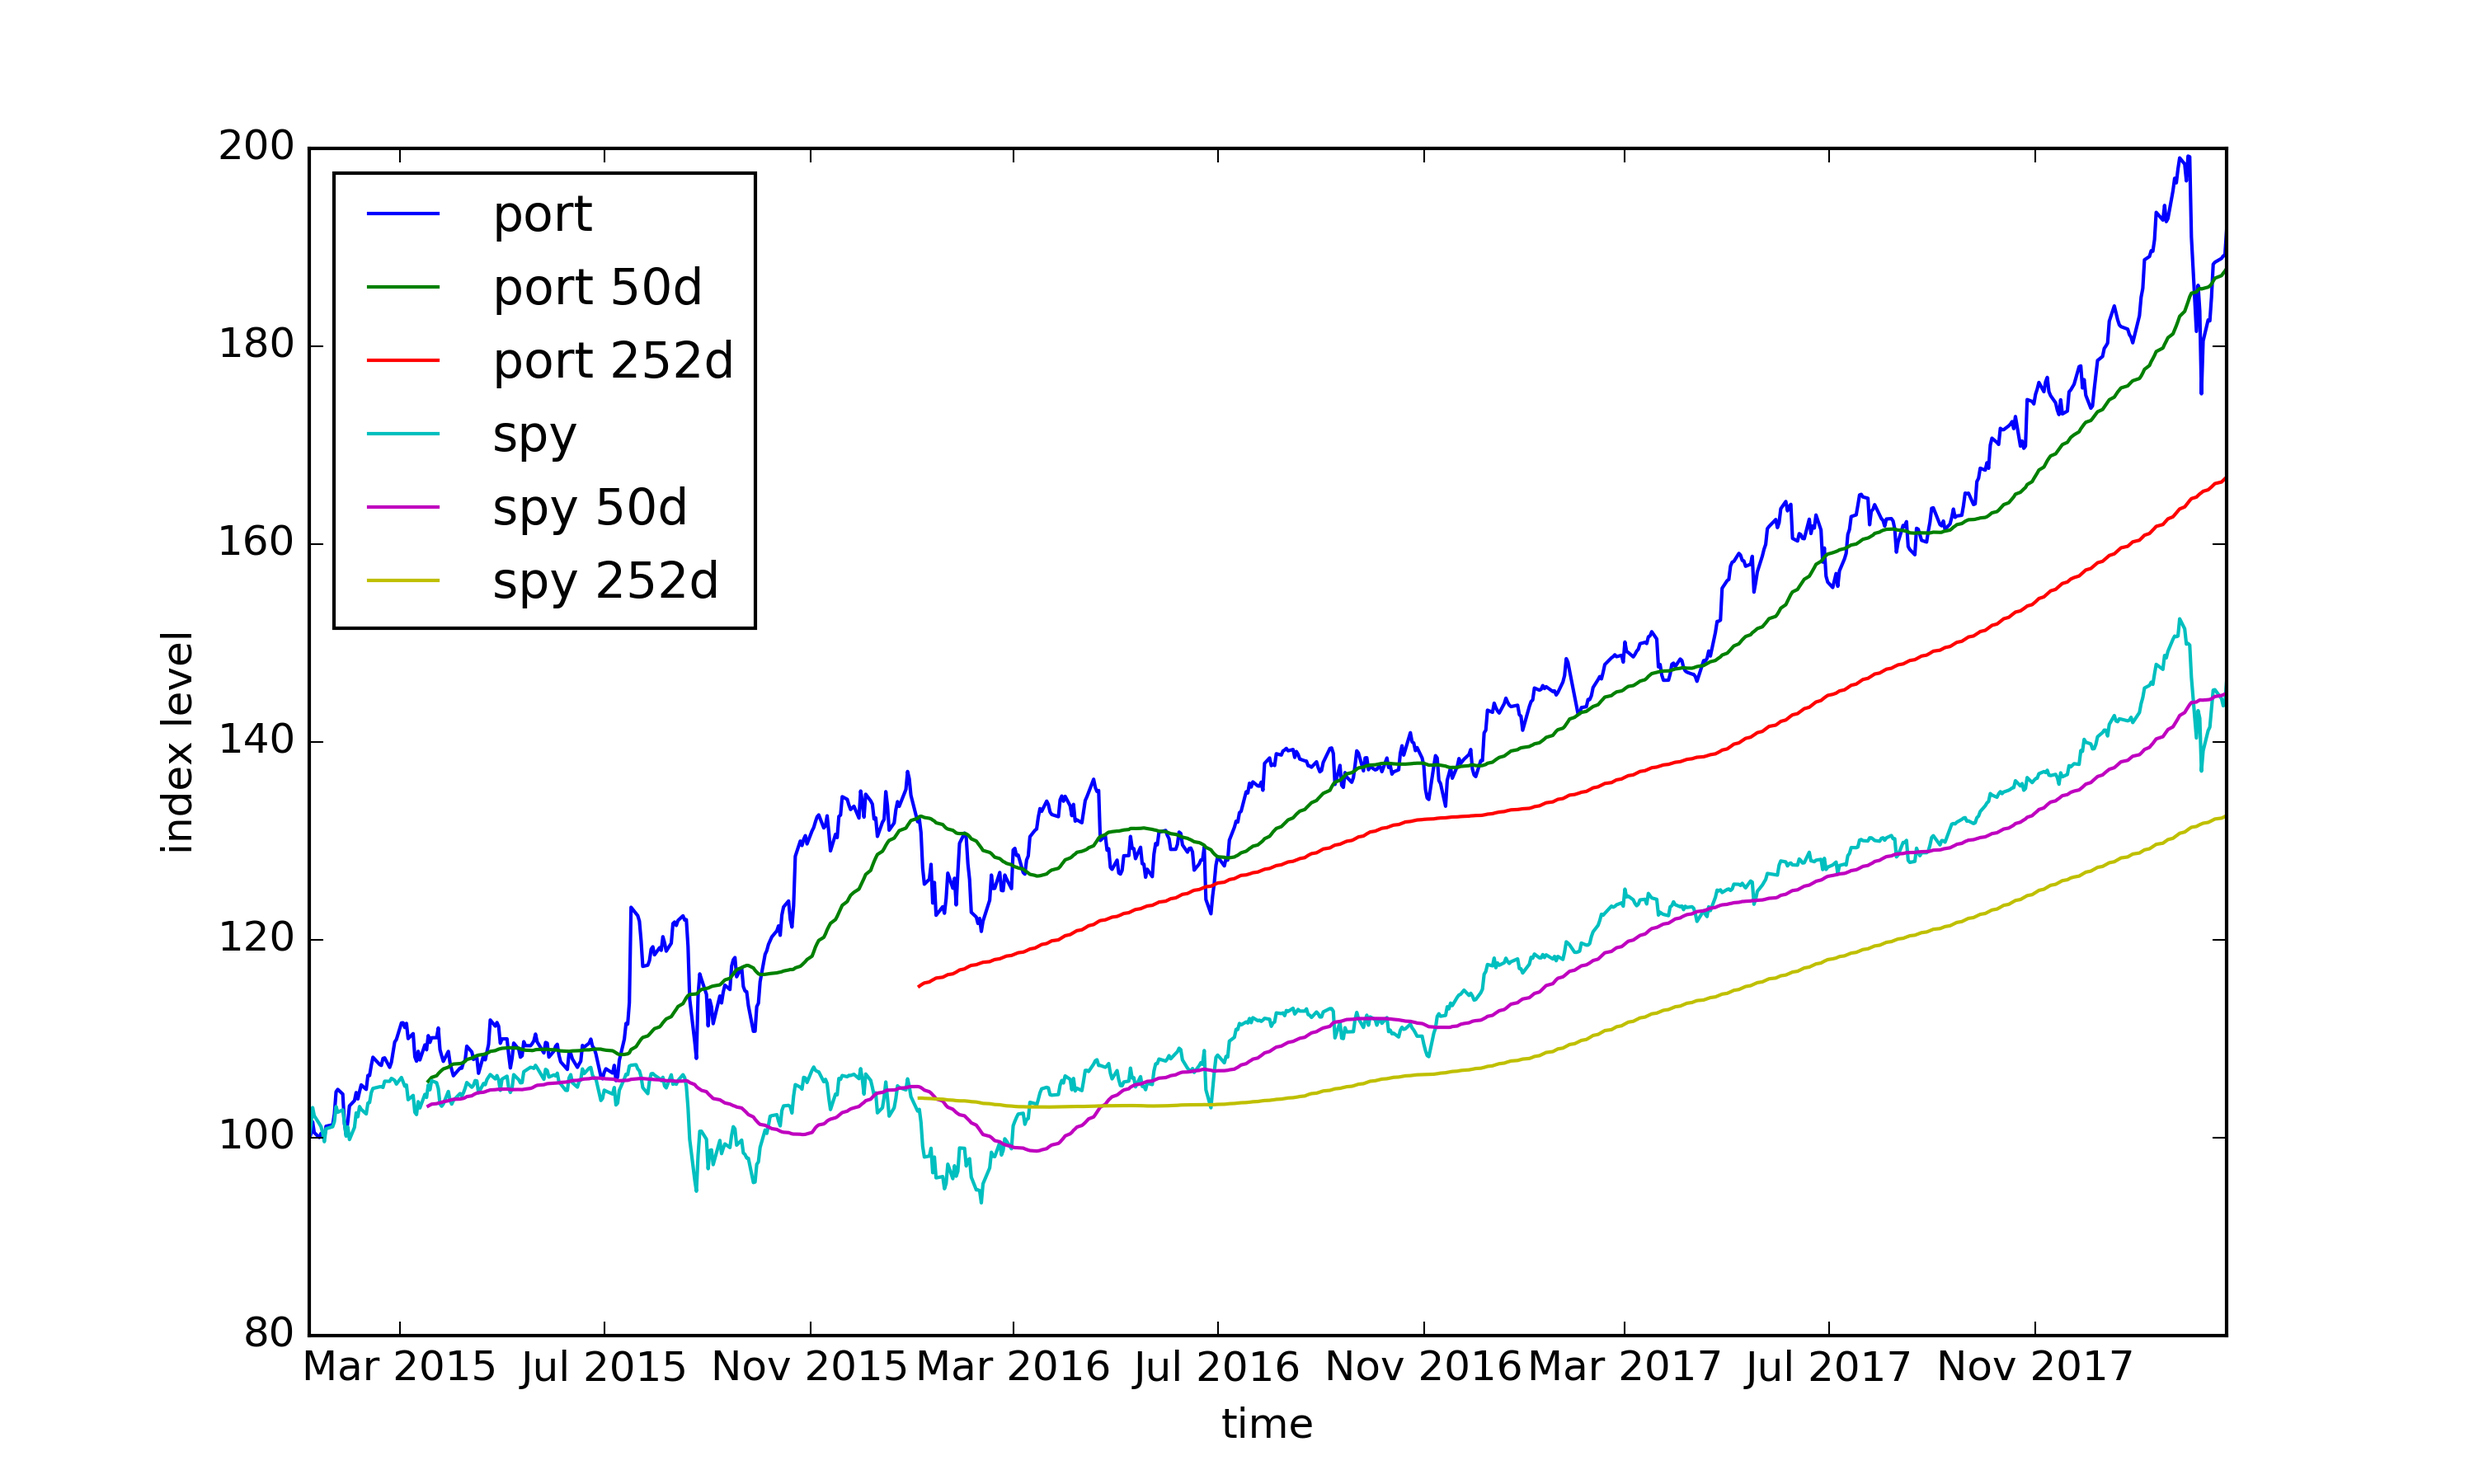
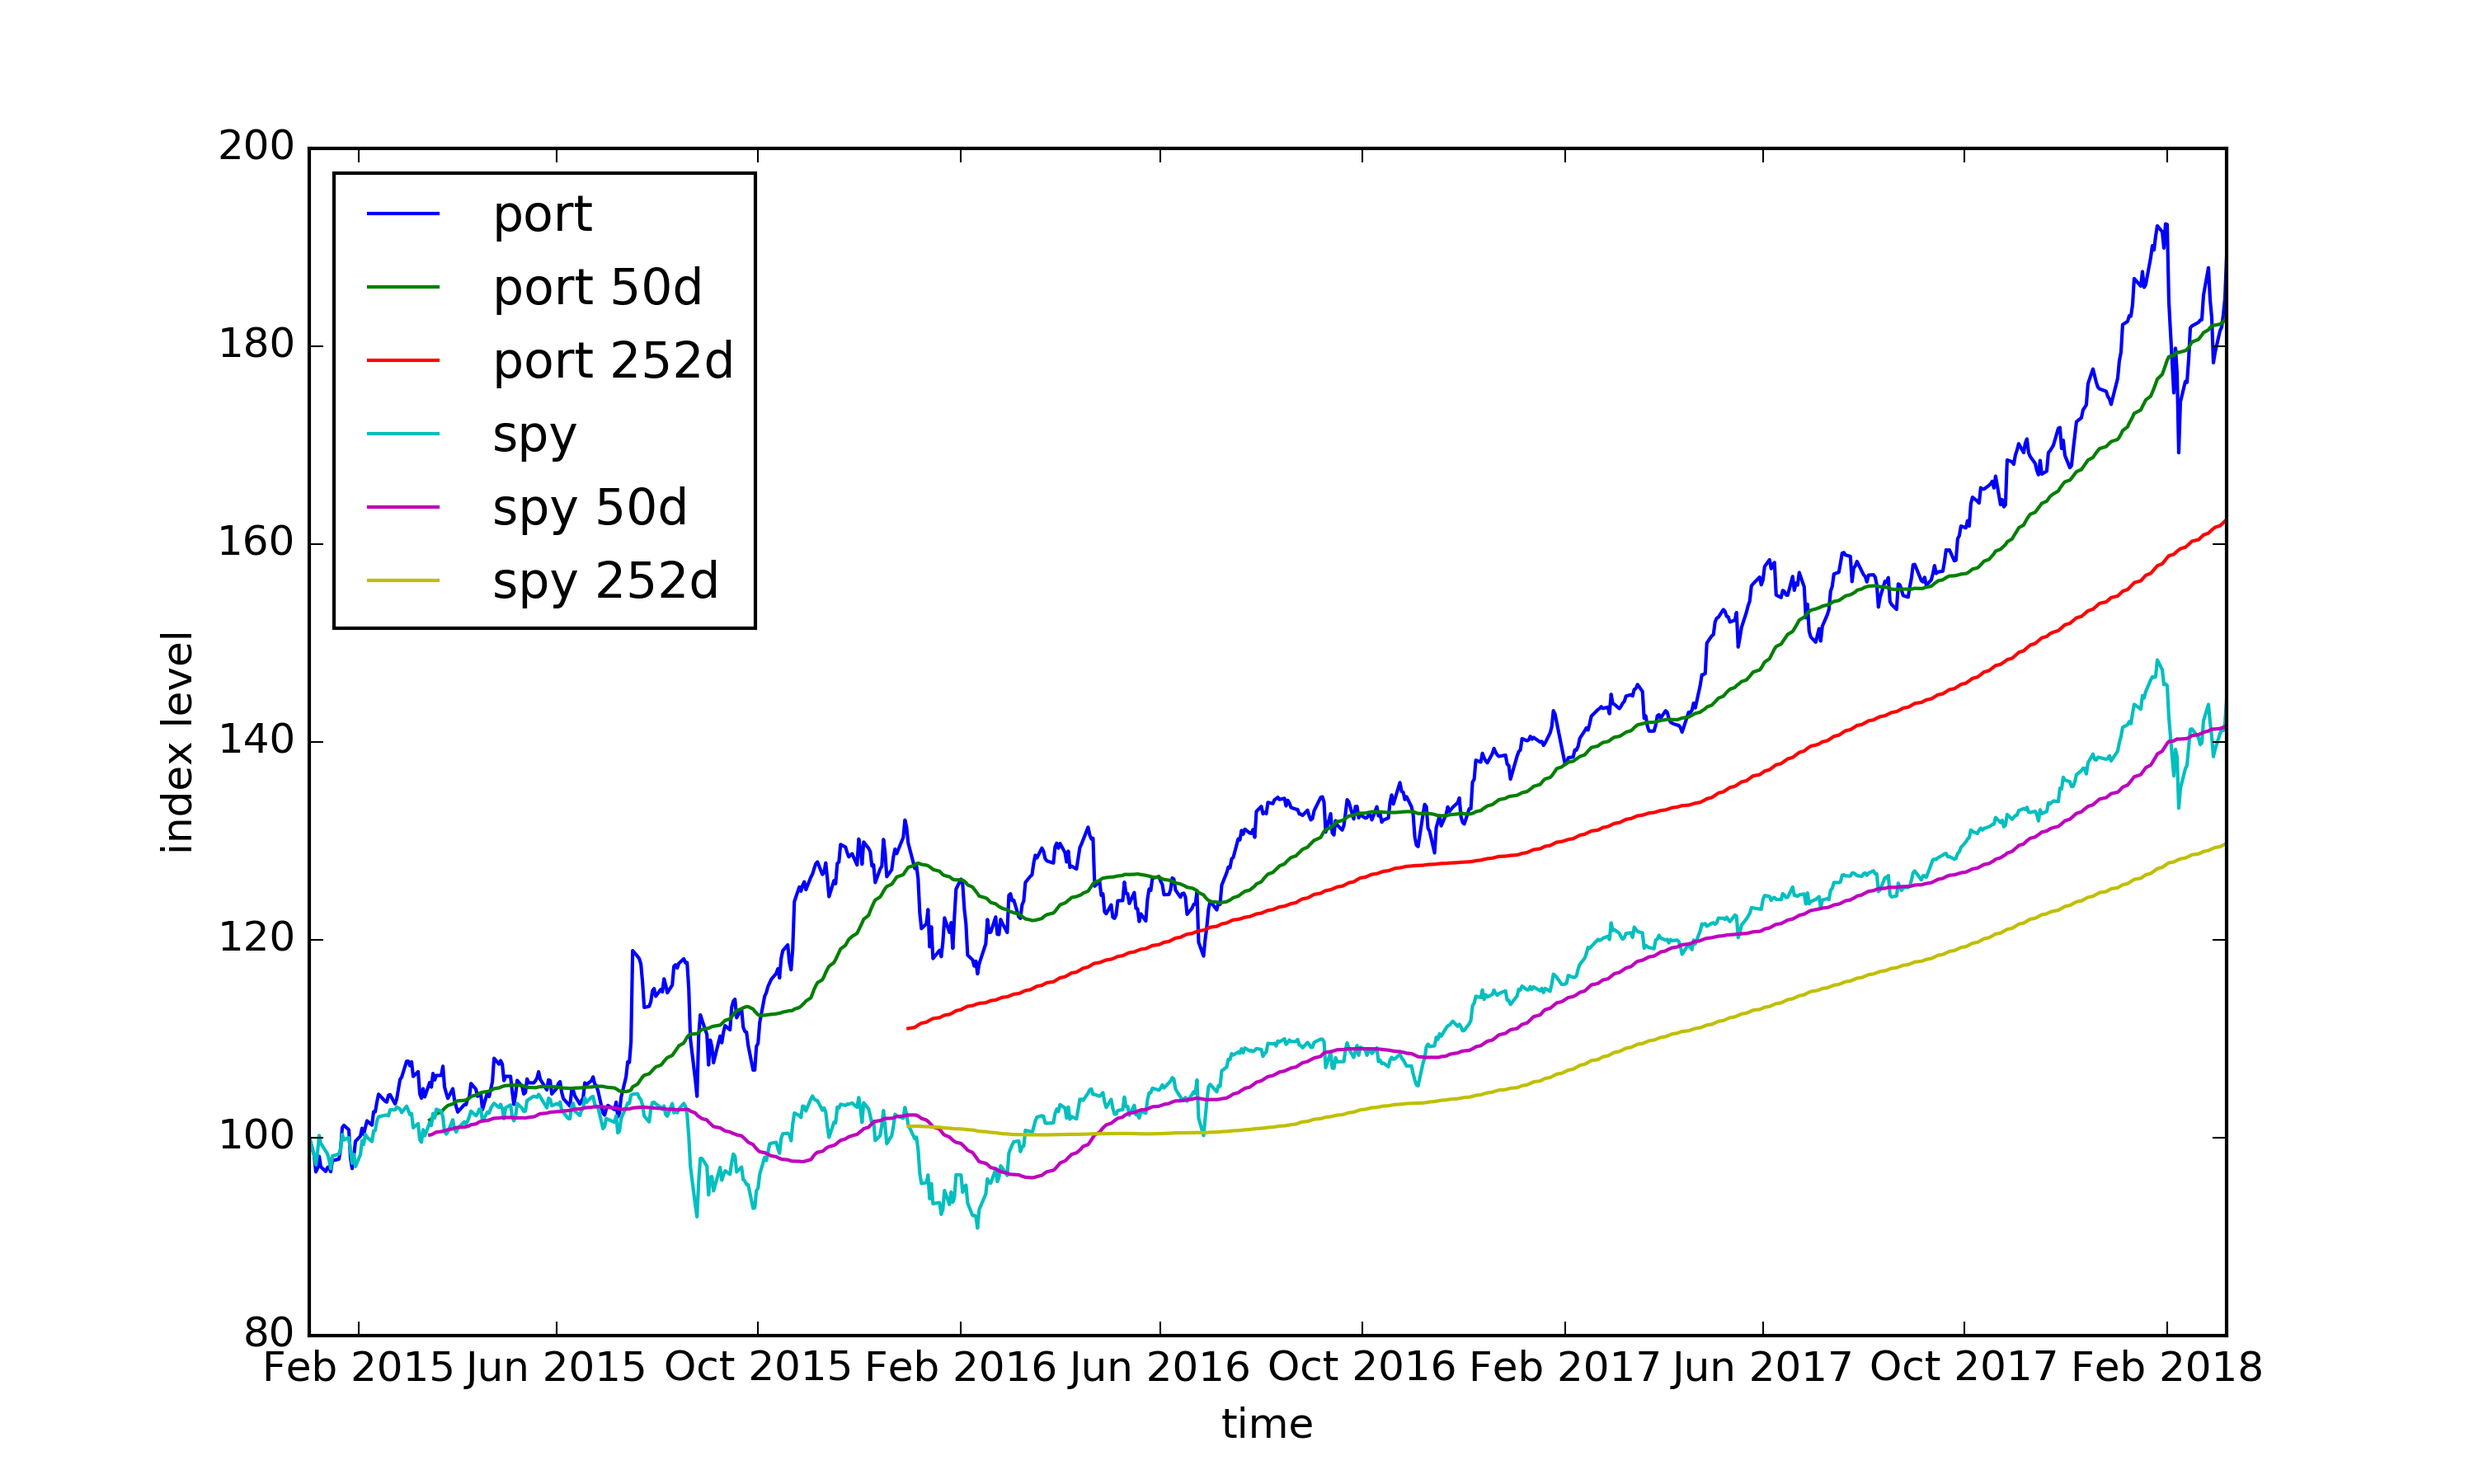
some edits

diff --git a/jgoldman/.~c9_invoke_mTQdYk.py b/jgoldman/.~c9_invoke_mTQdYk.py
@@ -29,11 +29,9 @@ class Position():
     def __init__(self, symbol, weight):
         self.wgt = weight
         self.sym = symbol
-        self.cash_left = 0
     
     def divs_collected(self):
         return self.hist['dividend_amount'].sum() * self.shares
-        
     
     def calc_pos_nav(self, dt):
         if len(self.hist[self.hist.timestamp == dt]['adjusted_close']) != 0:
@@ -41,10 +39,6 @@ class Position():
         else:
             # No price history yet, so can't compute NAV, just return o
             return 0
-    
-    def rebalance(self, port_nav, date):
-        self.shares = int((port_nav * self.wgt) / self.hist[dt.datetime.strptime(date, "%Y-%m-%d")]['adjusted_close'])
-        self.cash_left = (((PORTFOLIO_VALUE * self.wgt) / self.hist[date]['adjusted_close']) - int((PORTFOLIO_VALUE * self.wgt) / self.hist[date]['adjusted_close'])) * self.hist[date]['adjusted_close']
     
     def grab_history(self, start, end=dt.datetime.today()):
         # Pulls in the whole history for each ticker so takes a little bit to run, not ideal but didnt see a time parameter option in the api specs
@@ -54,8 +48,7 @@ class Position():
         self.init_price = self.hist.iloc[-1]['adjusted_close']
         self.hist = self.hist.sort_values(by=['timestamp'], ascending=True)
         # This will create fractional shares, not realistic but didnt know if you wanted there to be a cash position instead for the remainder
-        self.shares = int((PORTFOLIO_VALUE * self.wgt) / self.init_price)
-        self.cash_left = (((PORTFOLIO_VALUE * self.wgt) / self.init_price) - int((PORTFOLIO_VALUE * self.wgt) / self.init_price)) * self.init_price
+        self.shares = (PORTFOLIO_VALUE * self.wgt) / self.init_price
     
 
 def run(pos, start_dt, end_dt=dt.datetime.today()):
@@ -66,19 +59,12 @@ def run(pos, start_dt, end_dt=dt.datetime.today()):
     spy_hist = spy_hist.sort_values(by=['timestamp'], ascending=True)
     
     port_navs = pd.DataFrame(columns=['timestamp','adjusted_close'])
-    pdb.set_trace()
     for d in list(spy_hist['timestamp']):
         nav_temp = 0
-        try:
-            for p in pos:
-                p.rebalance(port_navs.iloc[-1], d)
-        except:
-            print("Maybe first day?")
         for p in pos:
-            nav_temp += p.calc_pos_nav(d) + sum([pp.cash_left for pp in pos])
-            
+            nav_temp += p.calc_pos_nav(d)
         port_navs.loc[len(port_navs)] = [d, nav_temp]
-    
+        
     print_stats(pos, port_navs, spy_hist)
     moving_avg_chart(port_navs, spy_hist)
     timeline_chart(pos, port_navs, spy_hist)
@@ -134,7 +120,6 @@ def print_stats(pos, port_navs, spy_hist):
     # vol, corr, beta
     # sortino, treynor
     # Return 
-    pdb.set_trace()
     spy_ret = round(((spy_hist.iloc[-1]['adjusted_close'] / spy_hist.iloc[0]['adjusted_close']) - 1) * 100, 3)
     print("SPY RETURN OVER HISTORY: " + str(spy_ret) + "%")
     port_ret = round(((port_navs.iloc[-1]['adjusted_close'] / port_navs.iloc[0]['adjusted_close']) - 1) * 100, 3)
@@ -242,6 +227,7 @@ if __name__ == '__main__':
     
     EXAMPLE COMMAND LINE RUN: python coding_challenge.py -d 20150101 -w 0.5,0.1,0.1,0.1,0.1,0.1 -t MSFT
     '''
+    pdb.set_trace()
     start_dt = dt.datetime(2000,1,1)
     tickers = ['googl', 'ba', 'f', 'vz', 'ge']
     weights = [0.2, 0.2, 0.2, 0.2, 0.2]
